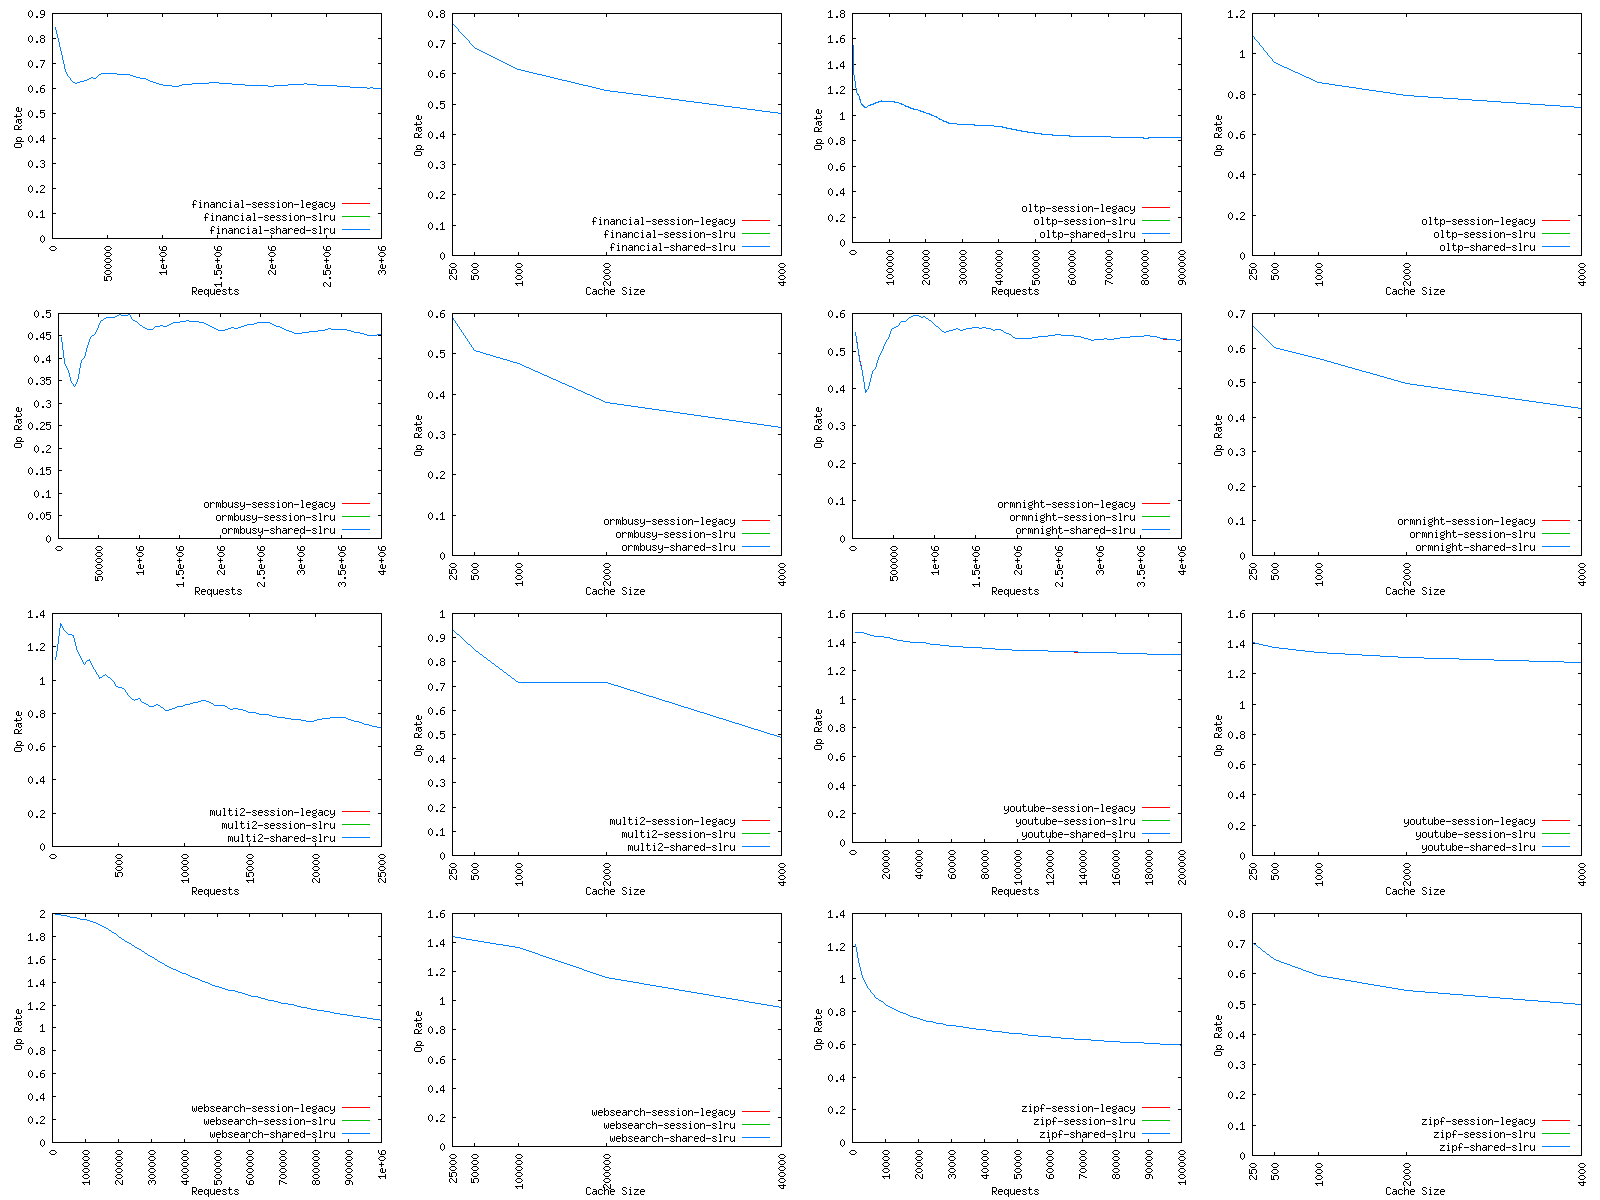
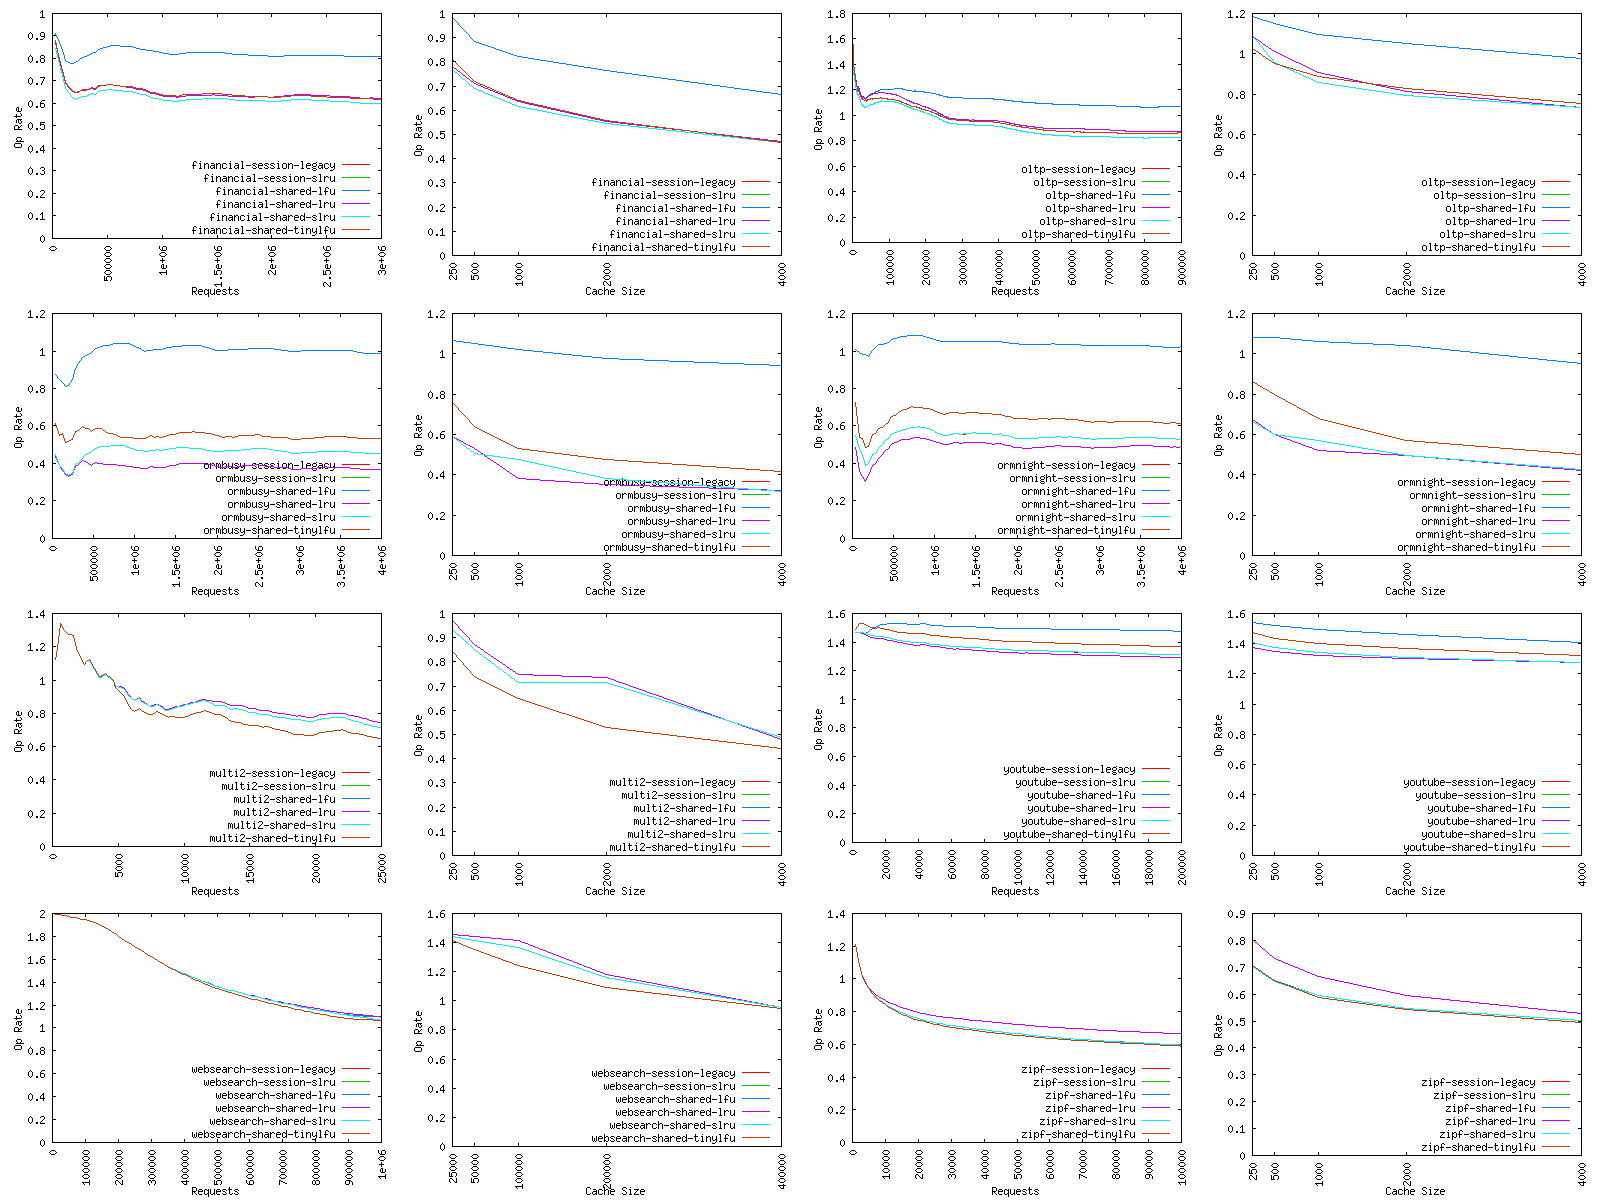
[go] add additional eviction policies to trace report

diff --git a/go/appencryption/integrationtest/traces/report.go b/go/appencryption/integrationtest/traces/report.go
@@ -170,6 +170,10 @@ var policies = []string{
 	"session-legacy",
 	"session-slru",
 	"shared-slru",
+
+	"shared-lru",
+	"shared-tinylfu",
+	"shared-lfu",
 }
 
 const (
@@ -266,6 +270,21 @@ func getConfig(opt options) *appencryption.Config {
 		policy.CacheSessions = false
 		policy.IntermediateKeyCacheMaxSize = opt.cacheSize
 		policy.IntermediateKeyCacheEvictionPolicy = "slru"
+		policy.SharedIntermediateKeyCache = true
+	case "shared-lru":
+		policy.CacheSessions = false
+		policy.IntermediateKeyCacheMaxSize = opt.cacheSize
+		policy.IntermediateKeyCacheEvictionPolicy = "lru"
+		policy.SharedIntermediateKeyCache = true
+	case "shared-tinylfu":
+		policy.CacheSessions = false
+		policy.IntermediateKeyCacheMaxSize = opt.cacheSize
+		policy.IntermediateKeyCacheEvictionPolicy = "tinylfu"
+		policy.SharedIntermediateKeyCache = true
+	case "shared-lfu":
+		policy.CacheSessions = false
+		policy.IntermediateKeyCacheMaxSize = opt.cacheSize
+		policy.IntermediateKeyCacheEvictionPolicy = "lfu"
 		policy.SharedIntermediateKeyCache = true
 	default:
 		panic(fmt.Sprintf("unknown policy: %s", opt.policy))
